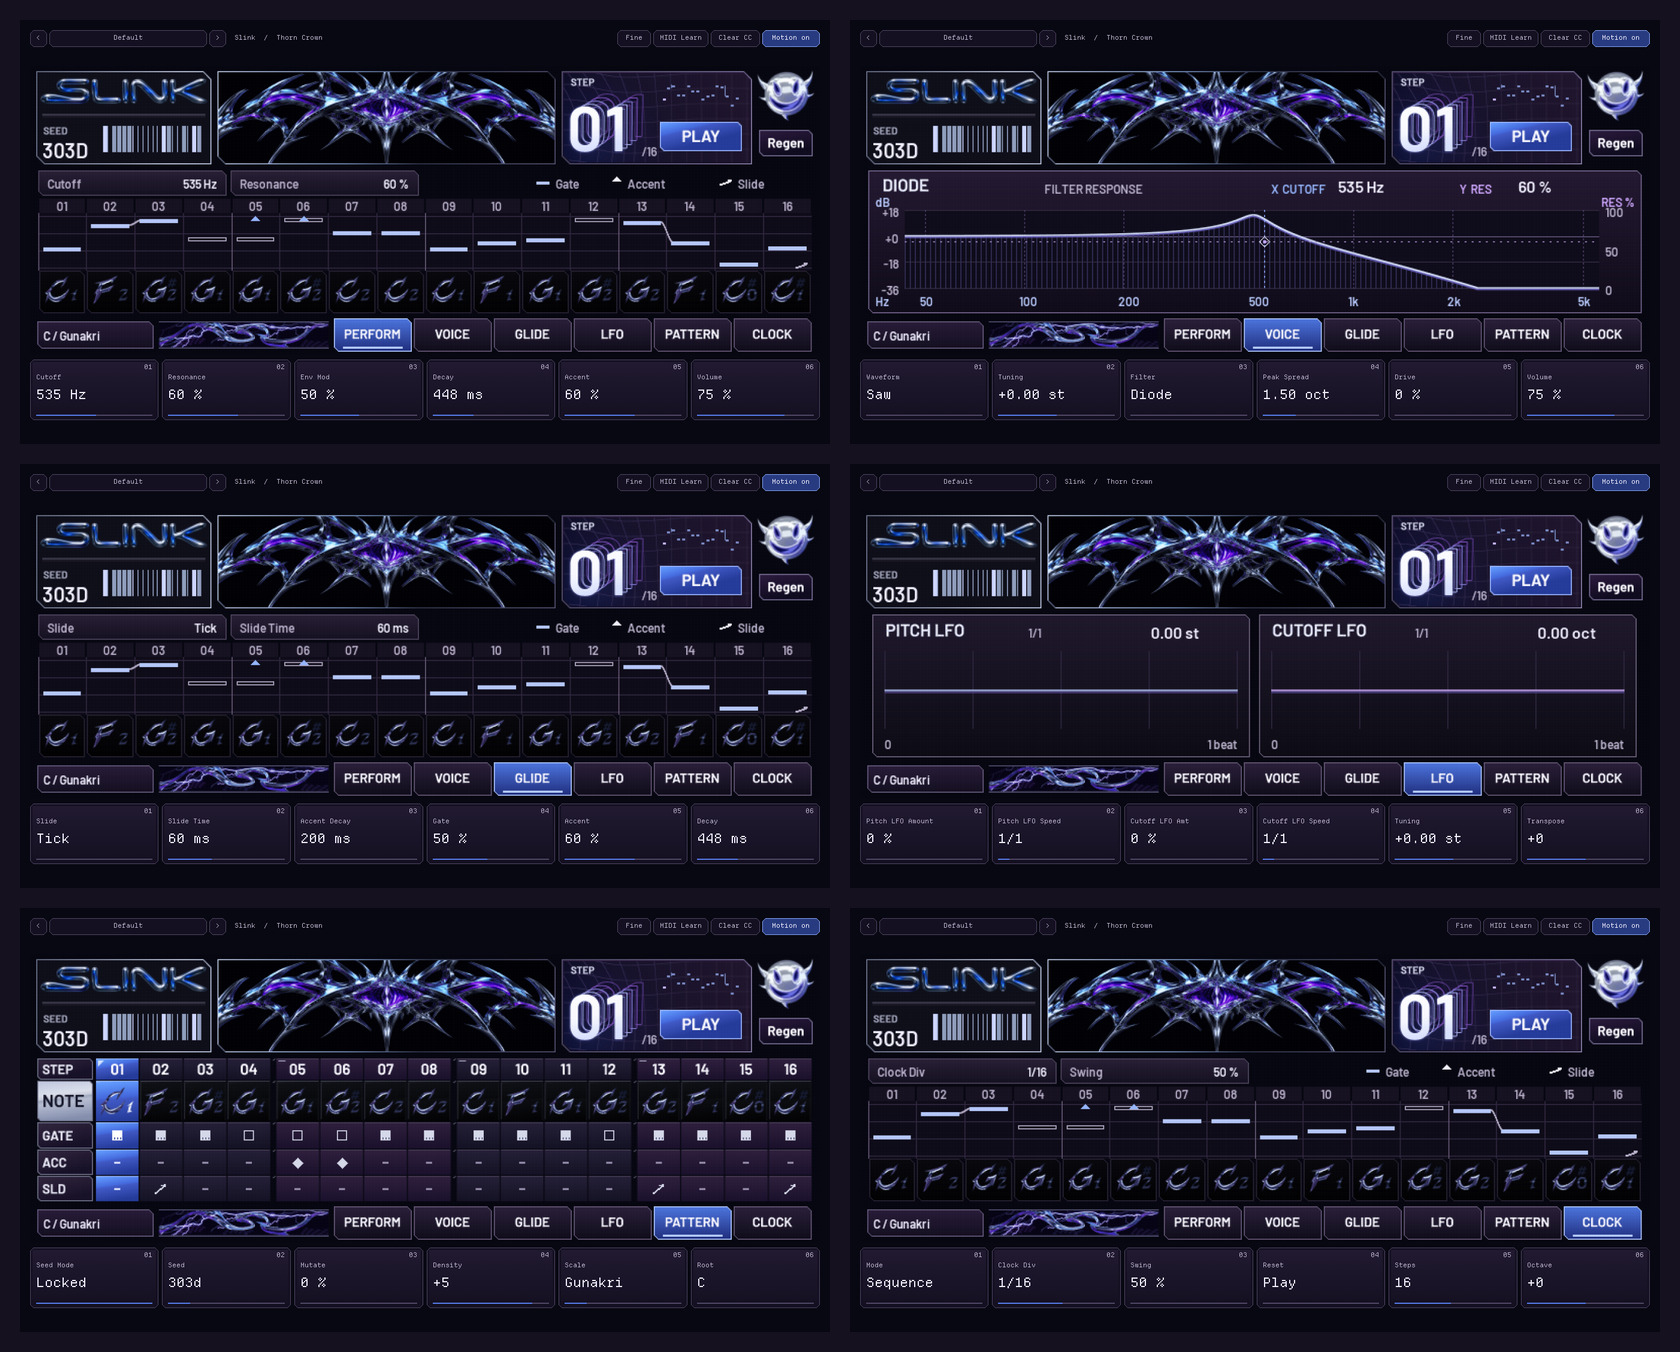
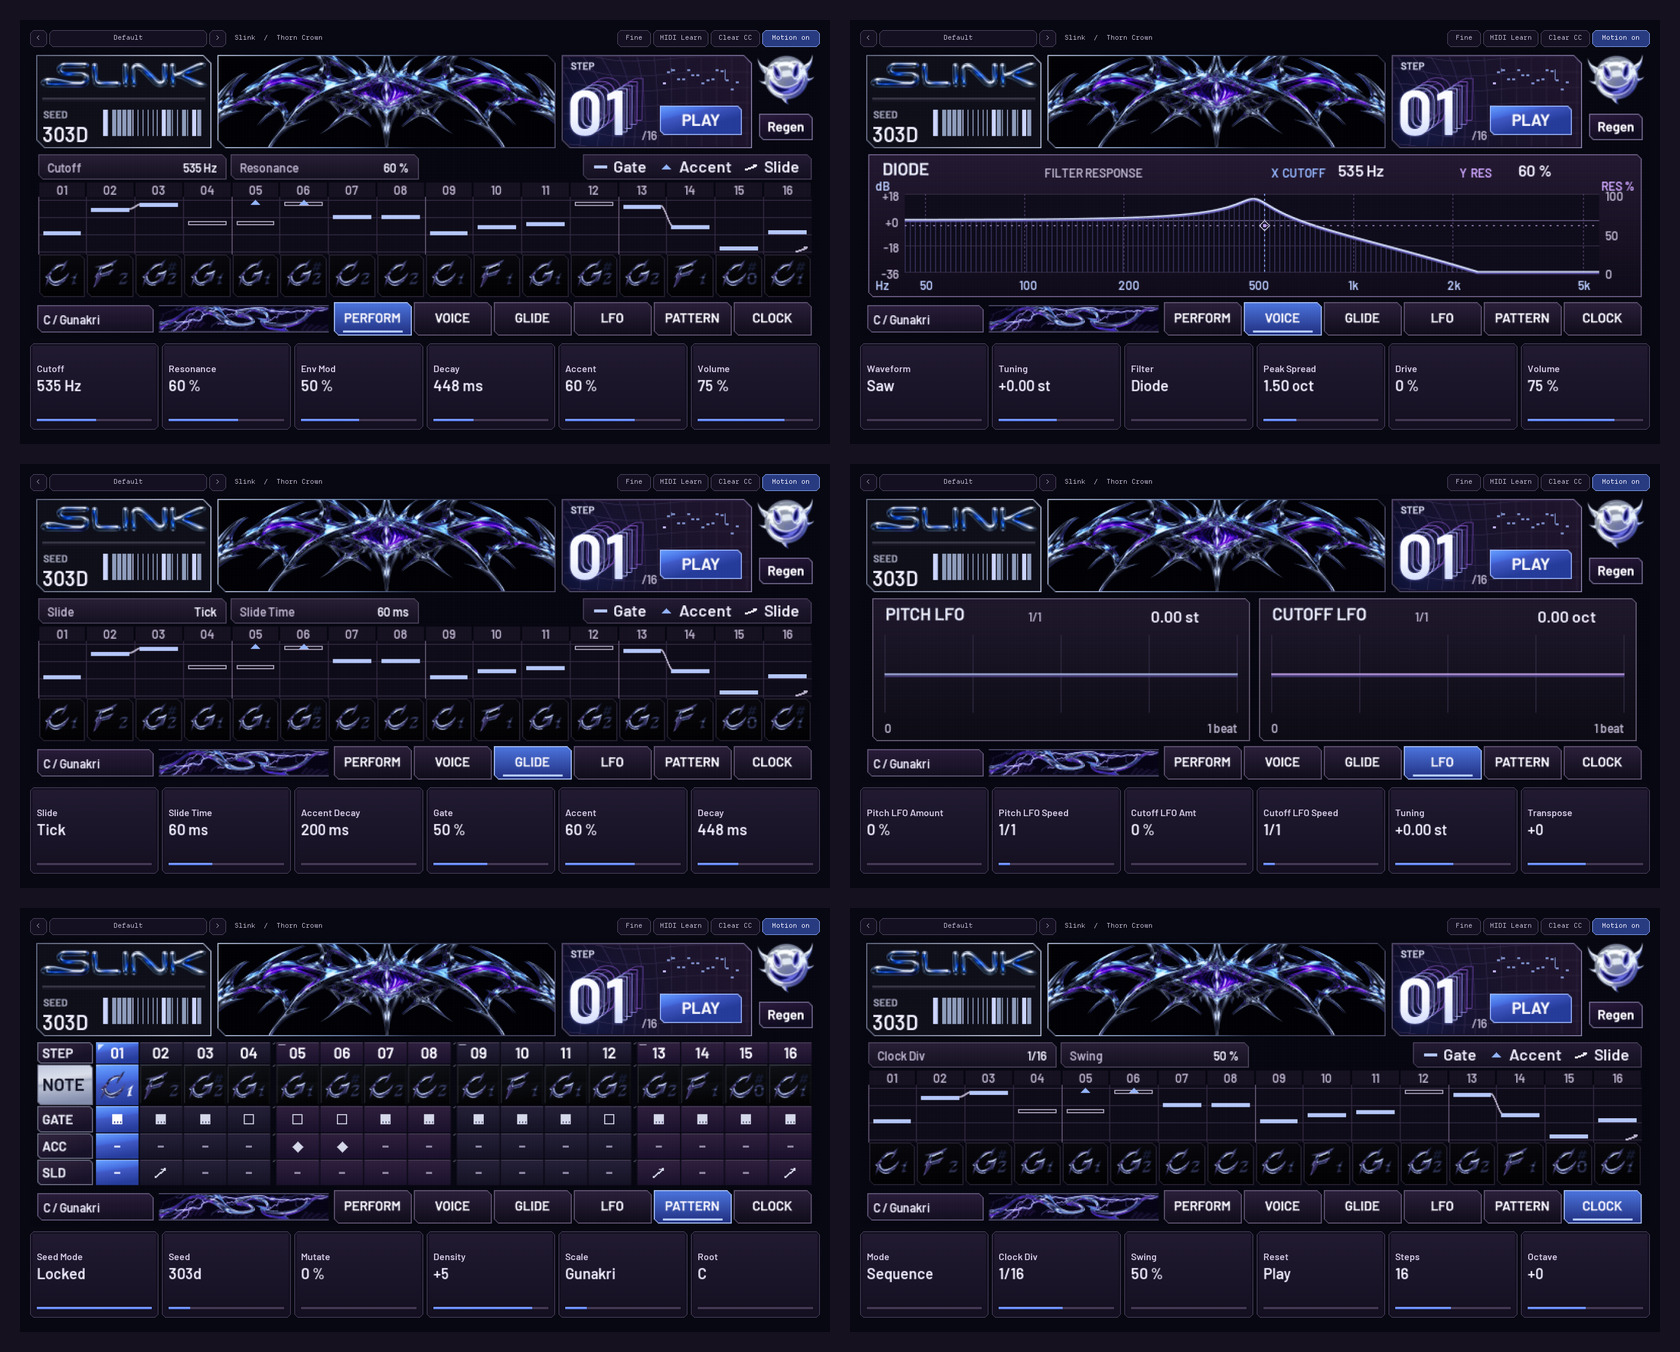
fix(desktop): tighten Slink layout and improve control typography

diff --git a/mac-clap/desktop/panel_ui.cpp b/mac-clap/desktop/panel_ui.cpp
@@ -1,7 +1,9 @@
 #include "panel_ui.h"
 #include "../src/params.h"
+#include "../../src/sp16_graphics.h"
 #include <chrono>
 #include <cstdio>
+#include <string_view>
 
 namespace hdslave_desktop
 {
@@ -26,6 +28,72 @@ void button(Canvas& c,Rect r,const std::string& name,bool active=false)
     plate(c,r,active?0xff283b80:glass,active?0xff89a7fa:lineInk);
     c.textAligned(r.inset(4),name,active?light:muted,1,1);
 }
+// Use the same antialiased Barlow lettering as the panel for desktop control cards.
+namespace font = tbmpc::rave;
+
+unsigned glyphIndex(char ch)
+{
+    return ch >= ' ' && ch <= '~' ? unsigned(ch - ' ') : unsigned('?' - ' ');
+}
+
+int textWidth(std::string_view text, const font::Font& face)
+{
+    int width = 0;
+    for (char ch : text)
+        width += face.widths[glyphIndex(ch)];
+    return width;
+}
+
+void controlText(Canvas& c, Rect box, std::string_view text, const font::Font& face,
+                 uint32_t color, float zoom = 1.f, bool alignRight = false)
+{
+    std::string fitted(text);
+    const int available = int(box.w / zoom);
+    if (textWidth(fitted, face) > available)
+    {
+        const int ellipsisWidth = textWidth("...", face);
+        while (!fitted.empty() && textWidth(fitted, face) + ellipsisWidth > available)
+            fitted.pop_back();
+        fitted += "...";
+    }
+    const float glyphScale = zoom * c.s;
+    const int lineHeight = int(std::lround(face.height * glyphScale));
+    float cursor = float(box.x * c.s);
+    if (alignRight)
+        cursor += box.w * c.s - textWidth(fitted, face) * glyphScale;
+    const int y = box.y * c.s + (box.h * c.s - lineHeight) / 2;
+    for (const char ch : fitted)
+    {
+        const auto glyph = glyphIndex(ch);
+        const int advance = face.widths[glyph];
+        const auto* mask = face.ink + glyph * face.height * face.stride;
+        const int start = int(std::lround(cursor));
+        cursor += advance * glyphScale;
+        const int width = int(std::lround(cursor)) - start;
+        const auto coverage = [&](int row, int col) {
+            const auto packed = mask[row * face.stride + col / 2];
+            return int(col % 2 ? packed & 15 : packed >> 4);
+        };
+        // Sample at physical pixel centers so Retina text keeps soft edges.
+        for (int dy = 0; dy < lineHeight; ++dy)
+        {
+            const float v = std::clamp((dy + .5f) * face.height / lineHeight - .5f, 0.f, float(face.height - 1));
+            const int v0 = int(v), v1 = std::min(v0 + 1, face.height - 1);
+            for (int dx = 0; dx < width; ++dx)
+            {
+                const float u = std::clamp((dx + .5f) * advance / width - .5f, 0.f, float(advance - 1));
+                const int u0 = int(u), u1 = std::min(u0 + 1, advance - 1);
+                const float mixX = u - u0, mixY = v - v0;
+                const float top = coverage(v0, u0) * (1 - mixX) + coverage(v0, u1) * mixX;
+                const float bottom = coverage(v1, u0) * (1 - mixX) + coverage(v1, u1) * mixX;
+                const unsigned alpha = unsigned((top * (1 - mixY) + bottom * mixY) * 17.f + .5f);
+                if (alpha)
+                    c.plot(start + dx, y + dy, color, alpha);
+            }
+        }
+    }
+}
+
 }
 
 PanelUI::PanelUI(DesktopPlugin* p) : p_(p), bodyPixels_(bw*bh), previousBody_(bw*bh)
@@ -82,20 +150,20 @@ void PanelUI::layout()
     x=w_-m-(56+92+82+96+12);
     status_={statusX,top,x-statusX-10,toolH};
     tool(Item::Fine,56); tool(Item::Learn,92); tool(Item::ClearCc,82); tool(Item::Motion,96);
-    const int firstY=top+toolH+9;
-    const int availableH=h_-m-firstY;
-    const int stripH=std::clamp(h_/7,78,118);
-    const int panelW=std::min(contentW,(availableH-stripH-8)*bw/bh);
-    const int panelH=(panelW*bh+bw/2)/bw;
-    const int left=(w_-panelW)/2;
-    const int y=firstY+std::max(0,(availableH-panelH-stripH-8)/2);
-    body_={left,y,panelW,panelH};
-    strip_={left,y+panelH+8,panelW,stripH};
+    constexpr int toolbarGap = 5, stripGap = 8, minStripHeight = 96, maxStripHeight = 144;
+    const int panelY = top + toolH + toolbarGap;
+    const int availableHeight = h_ - m - panelY;
+    const int panelW = std::min(contentW, (availableHeight - minStripHeight - stripGap) * bw / bh);
+    const int panelH = (panelW * bh + bw / 2) / bw;
+    const int left = (w_ - panelW) / 2;
+    const int stripHeight = std::min(maxStripHeight, availableHeight - panelH - stripGap);
+    body_ = {left, panelY, panelW, panelH};
+    strip_ = {left, panelY + panelH + stripGap, panelW, stripHeight};
     for(int i=0;i<6;++i)
     {
         const int span=panelW+6;
         const int l=span*i/6,r=span*(i+1)/6;
-        cards_[i]={left+l,strip_.y,r-l-6,stripH};
+        cards_[i]={left+l,strip_.y,r-l-6,stripHeight};
     }
 }
 
@@ -148,18 +216,30 @@ void PanelUI::paintStrip()
         const bool active=index==hover_ || index==dragParam_;
         plate(c_,r,active?0xff242044:glass,active?0xff8b9fd8:lineInk);
         c_.gradient({r.x+4,r.y+4,r.w-8,r.h-8},active?0xff28233f:0xff211a31,glass);
-        const int left=r.x+10, width=r.w-20;
-        char badge[8];
-        const int cc=p_->findCcForParam(param.id);
-        if (cc>=0) std::snprintf(badge,sizeof(badge),"CC %d",cc);
-        else std::snprintf(badge,sizeof(badge),"0%d",i+1);
-        c_.textAligned({left,r.y+7,width,14},badge,muted,1,2);
-        c_.textAligned({left,r.y+24,width,15},param.name,muted,1,0);
-        const int size=r.w>=155 && c_.textWidth(valueText(index),2)<=width ? 2 : 1;
-        c_.textAligned({left,r.y+39,width,r.h-54},valueText(index),light,size,0);
-        c_.fill(left,r.y+r.h-9,width,2,lineInk);
-        const int meter=int(std::lround(norm(index)*width));
-        if (meter>0) c_.fill(left,r.y+r.h-9,meter,2,cobalt);
+        const int left = r.x + 11, width = r.w - 22;
+        const int labelY = r.y + (r.h - 64) / 2 - 8;
+        const auto& labelFace = textWidth(param.name, font::normal) <= width ? font::normal : font::small;
+        controlText(c_, {left, labelY, width, 20}, param.name, labelFace, 0xffd0c6e1);
+        const auto& reading = readings_[i];
+        const int readingWidth = textWidth(reading, font::large);
+        const auto& valueFace = readingWidth <= width ? font::large : font::normal;
+        const float zoom = readingWidth * 1.25f <= width ? 1.25f : 1.f;
+        controlText(c_, {left, labelY + 23, width, 32}, reading, valueFace, light, zoom);
+
+        const int railY = r.y + r.h - 18;
+        const int cc = ccs_[i];
+        if (cc >= 0)
+        {
+            char badge[10];
+            std::snprintf(badge, sizeof(badge), "CC %d", cc);
+            controlText(c_, {left, railY - 19, width, 15}, badge, font::small, lilac, 1.f, true);
+        }
+
+        c_.fill(left - 1, railY - 1, width + 2, 6, 0xff0d0a17);
+        c_.fill(left, railY, width, 4, 0xff423752);
+        const int meter = int(std::lround(norm(index) * width));
+        if (meter > 0)
+            c_.gradient({left, railY, meter, 4}, 0xff84a1ff, cobalt);
     }
 }
 

diff --git a/mac-clap/tests/host_test.cpp b/mac-clap/tests/host_test.cpp
@@ -284,7 +284,7 @@ bool testIntegratedPanel (const clap_plugin_t* plug, const hdslave_desktop_debug
                           const clap_plugin_params_t& params, const clap_plugin_state_t& state,
                           clap_process_t& block, const std::string& snapDir)
 {
-    constexpr int left=12, top=74, w=936, h=342, scale=2;
+    constexpr int left=12, top=45, w=936, h=342, scale=2;
     const auto px = [](int x){ return left+(x+.5f)*w/780; };
     const auto py = [](int y){ return top+(y+.5f)*h/285; };
     int width=0,height=0;
@@ -345,10 +345,10 @@ bool testIntegratedPanel (const clap_plugin_t* plug, const hdslave_desktop_debug
             for(int x=int(px(x0)*scale);x<int(px(x1)*scale);x+=3) sample.push_back(data[y*width+x]);
         return sample;
     };
-    auto snap=[&](const char* page) {
+    auto snap=[&](const char* page, int w=1352, int h=708, int density=1) {
         if (snapDir.empty()) return;
         int sw=0,sh=0;
-        const auto* frame=ui.ui_render(plug,1352,708,1,&sw,&sh);
+        const auto* frame=ui.ui_render(plug,w,h,density,&sw,&sh);
         writePpm(snapDir+"/Slink-"+page+".ppm",frame,sw,sh);
         render();
     };
@@ -370,6 +370,7 @@ bool testIntegratedPanel (const clap_plugin_t* plug, const hdslave_desktop_debug
     }
     if (!check(pages.size()==6,"all six unique page bodies")) return false;
     page(0);
+    snap("perform-compact",960,540,2);
     const double cutoff=value("Cutoff");
     mouse(0,85,446); mouse(1,85,416); mouse(2,85,416);
     process();
@@ -416,7 +417,7 @@ bool testIntegratedPanel (const clap_plugin_t* plug, const hdslave_desktop_debug
     // Choices remain keyboard/wheel reachable through the desktop six-control strip.
     click(714,452);
     mouse(3,750,180,0,-1000);
-    click(714,400);
+    click(714,372);
     process();
     if (!check(value("Scale")==find("Scale").max_value,"last scale reachable from desktop menu")) return false;
 
@@ -556,8 +557,8 @@ bool testWin32Window (const clap_plugin_t* plug, const clap_plugin_gui_t& gui,
         }
         double before = 0, after = 0;
         ok = params.get_value (plug, seed, &before);
-        SendMessageW (child, WM_LBUTTONDOWN, MK_LBUTTON, MAKELPARAM (910, 164));
-        SendMessageW (child, WM_LBUTTONUP, 0, MAKELPARAM (910, 164));
+        SendMessageW (child, WM_LBUTTONDOWN, MK_LBUTTON, MAKELPARAM (910, 136));
+        SendMessageW (child, WM_LBUTTONUP, 0, MAKELPARAM (910, 136));
         static_cast<StrictHostCtx*> (block.out_events->ctx)->lastOutTime = 0;
         block.steady_time += block.frames_count;
         plug->process (plug, &block);

diff --git a/src/sp16_panel.h b/src/sp16_panel.h
@@ -263,12 +263,32 @@ private:
             r.text(x+9,109,param.name,muted);
             r.right(x+176,109,text,paper);
         }
+#ifdef SLINK_DESKTOP
+        // The three symbols read as one group on the wider desktop ribbon.
+        constexpr int legendX = 546, legendEnd = 772, iconWidth = 13, iconGap = 6, itemGap = 13;
+        constexpr const char* labels[] = {"Gate", "Accent", "Slide"};
+        int legendWidth = 2 * itemGap;
+        for (const auto* label : labels)
+            legendWidth += iconWidth + iconGap + Raster::readingWidth(label);
+        r.plate(legendX, 103, legendEnd - legendX, 25, 0xff241c34, 0xff141020, 0xff4a405c);
+        int iconX = legendX + (legendEnd - legendX - legendWidth) / 2;
+        r.box(iconX, 114, iconWidth, 3, steel);
+        for (int item = 0; item < 3; ++item)
+        {
+            if (item == 1) accentMark(r, iconX + 2, 113, ice);
+            if (item == 2) slideMark(r, iconX, 117, paper);
+            const int labelX = iconX + iconWidth + iconGap;
+            r.reading(labelX, 105, legendEnd - 3, labels[item], paper);
+            iconX = labelX + Raster::readingWidth(labels[item]) + itemGap;
+        }
+#else
         r.box(500,114,13,3,steel);
         r.text(519,109,"Gate",muted);
         accentMark(r,575,109,paper);
         r.text(590,109,"Accent",muted);
         slideMark(r,681,116,paper);
         r.text(699,109,"Slide",muted);
+#endif
 
         if (shown.steps <= 0) return;
         const int rows = shown.steps > 16 ? 2 : 1;

diff --git a/mac-clap/src/params.h b/mac-clap/src/params.h
@@ -14,7 +14,7 @@
 #include "../../src/lfo.h"
 
 #ifndef TBMPC_VERSION
-#define TBMPC_VERSION "0.8.0"
+#define TBMPC_VERSION "0.8.1"
 #endif
 
 namespace tbmpc

diff --git a/mac-clap/README.md b/mac-clap/README.md
@@ -6,7 +6,7 @@ Separate desktop CLAP build of **hdslave Slink** for **FL Studio** (2024+) and a
 
 [See all six desktop pages](assets/thorn-crown-desktop-pages.jpg)
 
-Slink **0.8.0** for macOS and Windows uses the same **Thorn Crown** panel, artwork and pointer gestures as the [freesp16 build](../README.md#freesp16-on-sp-16). The editor resizes down to 960 × 540. The six-control strip below the panel follows the selected page; it replaces the hardware encoder strip.
+Slink **0.8.1** for macOS and Windows uses the same **Thorn Crown** panel, artwork and pointer gestures as the [freesp16 build](../README.md#freesp16-on-sp-16). The editor resizes down to 960 × 540. The six-control strip below the panel follows the selected page; it replaces the hardware encoder strip.
 
 | Page | What you can edit directly | Desktop strip |
 | --- | --- | --- |
